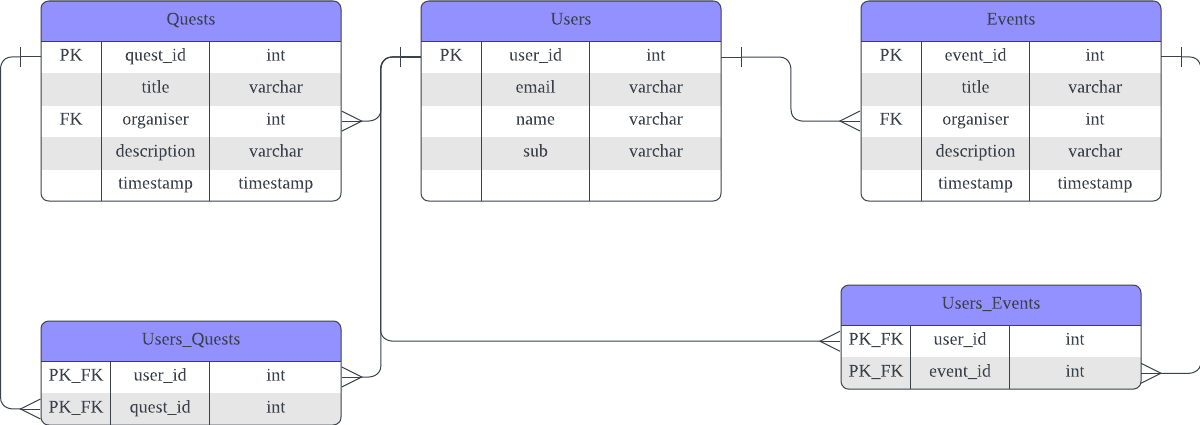
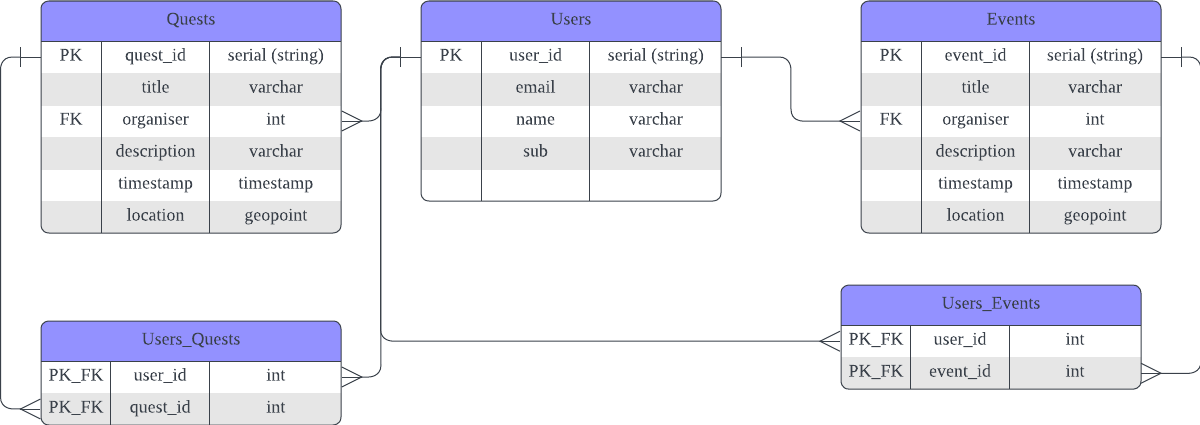
docs: added API endpoints

diff --git a/api.md b/api.md
@@ -1,0 +1,100 @@
+# API Endpoints
+
+## Users
+
+### `GET /user` 
+
+- Description: Retrieves a list of *all* users.
+- Request data format: None
+- Response data format: JSON
+- Authentication: None
+
+### `GET /user/{id}`
+
+- Description: Retrieves a user by id.
+- Request data format: None
+- Response data format: JSON
+- Authentication: None
+
+## Events
+
+#### `GET /events`
+- Description: Retrieves a list of all events.
+- Request data format: None
+- Response data format: JSON
+- Authentication: None
+
+#### `POST /events`
+- Description: Creates a new event.
+- Request data format: JSON object containing event data (e.g., name, location, etc.)
+- Response data format: JSON object containing the newly created event
+- Authentication: Required
+
+#### `GET /events/:id`
+- Description: Retrieves a single event with the given ID.
+- Request data format: None
+- Response data format: JSON object containing the event with the given ID
+- Authentication: None
+
+#### `PATCH /events/:id`
+- Description: Updates an event with the given ID.
+- Request data format: JSON object containing updated event data
+- Response data format: JSON object containing the updated event
+- Authentication: Required
+
+#### `DELETE /events/:id`
+- Description: Deletes an event with the given ID.
+- Request data format: None
+- Response data format: None
+- Authentication: Required 
+
+#### `GET /events?lat=:lat&lng=:lng&radius=:radius`
+- Description: Retrieves a list of events within a certain radius of a given latitude and longitude.
+- Request data format: None
+- Response data format: JSON object containing the list of events within the specified radius
+- Authentication: None
+
+<!-- #### `GET /events?type=:type` -->
+<!-- - Description: Retrieves a list of events of a certain type. -->
+<!-- - Request data format: None -->
+<!-- - Response data format: JSON object containing the list of events of the specified type -->
+<!-- - Authentication: None -->
+<!---->
+
+## Quests
+
+#### `GET /quests`
+- Description: Retrieves a list of all quests.
+- Request data format: None
+- Response data format: JSON
+- Authentication: None
+
+#### `POST /quests`
+- Description: Creates a new quest.
+- Request data format: JSON object containing quest data (e.g., name, location, etc.)
+- Response data format: JSON object containing the newly created quest
+- Authentication: Required
+
+#### `GET /quests/:id`
+- Description: Retrieves a single quest with the given ID.
+- Request data format: None
+- Response data format: JSON object containing the quest with the given ID
+- Authentication: None
+
+#### `PATCH /quests/:id`
+- Description: Updates an quest with the given ID.
+- Request data format: JSON object containing updated quest data
+- Response data format: JSON object containing the updated quest
+- Authentication: Required
+
+#### `DELETE /quests/:id`
+- Description: Deletes an quest with the given ID.
+- Request data format: None
+- Response data format: None
+- Authentication: Required 
+
+#### `GET /quests?lat=:lat&lng=:lng&radius=:radius`
+- Description: Retrieves a list of quests within a certain radius of a given latitude and longitude.
+- Request data format: None
+- Response data format: JSON object containing the list of quests within the specified radius
+- Authentication: None
